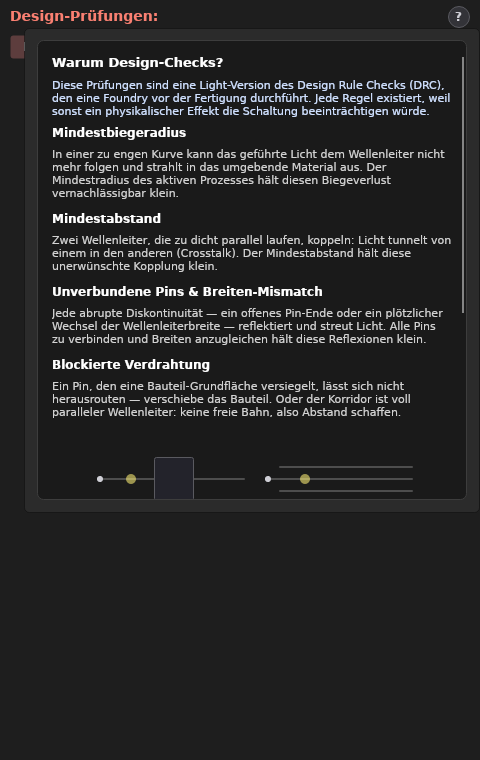
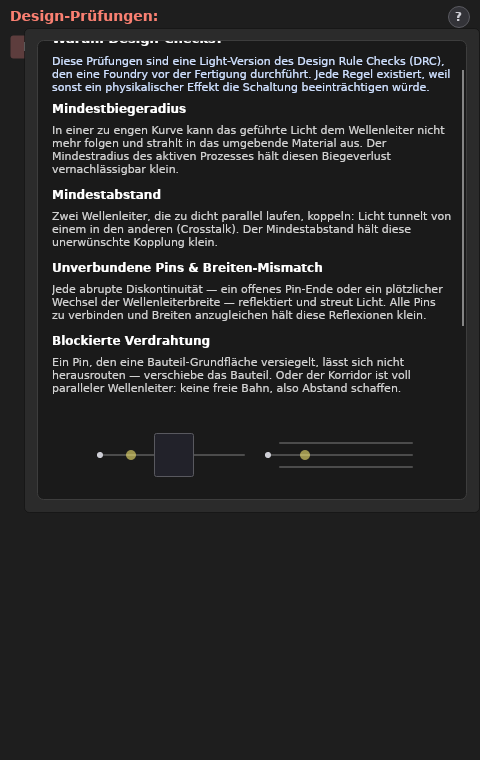
fix(tests): #1421 — stabilize Design Checks help screenshot tests against flyout growth
The new "Blocked wires" section pushed "Chiplet links" below the flyout's
460 px scroll fold, so CaptureChipletLinkAnimation captured identical
frames (QA ui_test failure on PR #1427). The tests now scroll their
animation into view before capturing and wait for the staggered entrance
by polling real opacity instead of a fixed delay that flakes under CI load.

diff --git a/UnitTests/UI/Issue1247ChipletLinkHelpScreenshotTests.cs b/UnitTests/UI/Issue1247ChipletLinkHelpScreenshotTests.cs
@@ -78,15 +78,10 @@ public class Issue1247ChipletLinkHelpScreenshotTests
             Dispatcher.UIThread.RunJobs();
 
             // The HelpFlyoutButton staggers its sections in (Task.Delay + opacity
-            // transitions): give the delays real time, then advance the headless render
-            // clock so the transitions finish — otherwise later sections stay at opacity 0.
-            await Task.Delay(600);
-            for (int i = 0; i < 30; i++)
-            {
-                Dispatcher.UIThread.RunJobs();
-                AvaloniaHeadlessPlatform.ForceRenderTimerTick();
-                await Task.Delay(10);
-            }
+            // transitions): wait until the entrance has actually finished instead of
+            // guessing a duration — the reveal is real-time, so a fixed wait flakes
+            // under CI load or when a section is added to the flyout.
+            await WaitForFlyoutRevealedAsync(help);
             Dispatcher.UIThread.RunJobs();
 
             var animations = window.GetVisualDescendants()
@@ -94,6 +89,13 @@ public class Issue1247ChipletLinkHelpScreenshotTests
             animations.ShouldNotBeEmpty("the flyout must contain the Chiplet links animation");
             foreach (var animation in animations)
                 animation.AutoPlay = false;
+
+            // The flyout caps at 460 px and scrolls: sections added above "Chiplet
+            // links" push it below the fold, where every capture would look identical.
+            // Scroll the animation into the visible region before capturing.
+            foreach (var animation in animations)
+                animation.BringIntoView();
+            PumpRenderLoop();
 
             SetProgress(animations, ChipletLinkCouplingAnimation.ShowcasePhases[0]);
             var first = Capture(window, dir, "chiplet-link-1-butt-coupled.png",
@@ -131,6 +133,38 @@ public class Issue1247ChipletLinkHelpScreenshotTests
                 PropertyNamingPolicy = JsonNamingPolicy.CamelCase,
             }));
         manifest.Count.ShouldBe(3);
+    }
+
+    /// <summary>
+    /// Waits until the (?) flyout's staggered entrance has fully revealed every section.
+    /// Polls the real opacity of the HelpContent panel's children (the stagger targets):
+    /// first until the entrance has started hiding them, then until all are opaque again.
+    /// Falls through after 15 s — the capture's blank-frame guard reports what is missing.
+    /// </summary>
+    private static async Task WaitForFlyoutRevealedAsync(HelpFlyoutButton help)
+    {
+        var deadline = DateTime.UtcNow + TimeSpan.FromSeconds(15);
+        var entranceStarted = false;
+        while (DateTime.UtcNow < deadline)
+        {
+            Dispatcher.UIThread.RunJobs();
+            AvaloniaHeadlessPlatform.ForceRenderTimerTick();
+
+            if (help.HelpContent is Panel panel)
+            {
+                var children = panel.Children.OfType<Control>().ToList();
+                if (children.Count > 0 && children.All(c => c.Opacity >= 0.999))
+                {
+                    if (entranceStarted)
+                        return;
+                }
+                else
+                {
+                    entranceStarted = true;
+                }
+            }
+            await Task.Delay(20);
+        }
     }
 
     private static void SetProgress(IEnumerable<HelpAnimationBase> animations, double progress)

diff --git a/UnitTests/UI/Issue1421BlockedWireHelpScreenshotTests.cs b/UnitTests/UI/Issue1421BlockedWireHelpScreenshotTests.cs
@@ -91,14 +91,10 @@ public class Issue1421BlockedWireHelpScreenshotTests
             Dispatcher.UIThread.RunJobs();
 
             // The HelpFlyoutButton staggers its sections in (Task.Delay + opacity
-            // transitions): give the delays real time, then tick the render clock.
-            await Task.Delay(600);
-            for (int i = 0; i < 30; i++)
-            {
-                Dispatcher.UIThread.RunJobs();
-                AvaloniaHeadlessPlatform.ForceRenderTimerTick();
-                await Task.Delay(10);
-            }
+            // transitions): wait until the entrance has actually finished instead of
+            // guessing a duration — the reveal is real-time, so a fixed wait flakes
+            // under CI load or when a section is added to the flyout.
+            await WaitForFlyoutRevealedAsync(help);
             Dispatcher.UIThread.RunJobs();
 
             var animations = window.GetVisualDescendants()
@@ -106,6 +102,12 @@ public class Issue1421BlockedWireHelpScreenshotTests
             animations.ShouldNotBeEmpty("the flyout must contain the Blocked wires animation");
             foreach (var animation in animations)
                 animation.AutoPlay = false;
+
+            // The flyout caps at 460 px and scrolls: make the captures independent of
+            // how many sections sit above "Blocked wires" by scrolling it into view.
+            foreach (var animation in animations)
+                animation.BringIntoView();
+            PumpRenderLoop();
 
             const string caption =
                 "Design Checks help, \"Blocked wires\": left, a pulse sealed in by a component footprint stalls and turns red until the component slides away; right, a corridor full of parallel waveguides shows the dashed red blocked fallback until the neighbours spread apart and a lane opens.";
@@ -143,6 +145,38 @@ public class Issue1421BlockedWireHelpScreenshotTests
         {
             window.Close();
             Dispatcher.UIThread.RunJobs();
+        }
+    }
+
+    /// <summary>
+    /// Waits until the (?) flyout's staggered entrance has fully revealed every section.
+    /// Polls the real opacity of the HelpContent panel's children (the stagger targets):
+    /// first until the entrance has started hiding them, then until all are opaque again.
+    /// Falls through after 15 s — the capture's blank-frame guard reports what is missing.
+    /// </summary>
+    private static async Task WaitForFlyoutRevealedAsync(HelpFlyoutButton help)
+    {
+        var deadline = DateTime.UtcNow + TimeSpan.FromSeconds(15);
+        var entranceStarted = false;
+        while (DateTime.UtcNow < deadline)
+        {
+            Dispatcher.UIThread.RunJobs();
+            AvaloniaHeadlessPlatform.ForceRenderTimerTick();
+
+            if (help.HelpContent is Panel panel)
+            {
+                var children = panel.Children.OfType<Control>().ToList();
+                if (children.Count > 0 && children.All(c => c.Opacity >= 0.999))
+                {
+                    if (entranceStarted)
+                        return;
+                }
+                else
+                {
+                    entranceStarted = true;
+                }
+            }
+            await Task.Delay(20);
         }
     }
 
